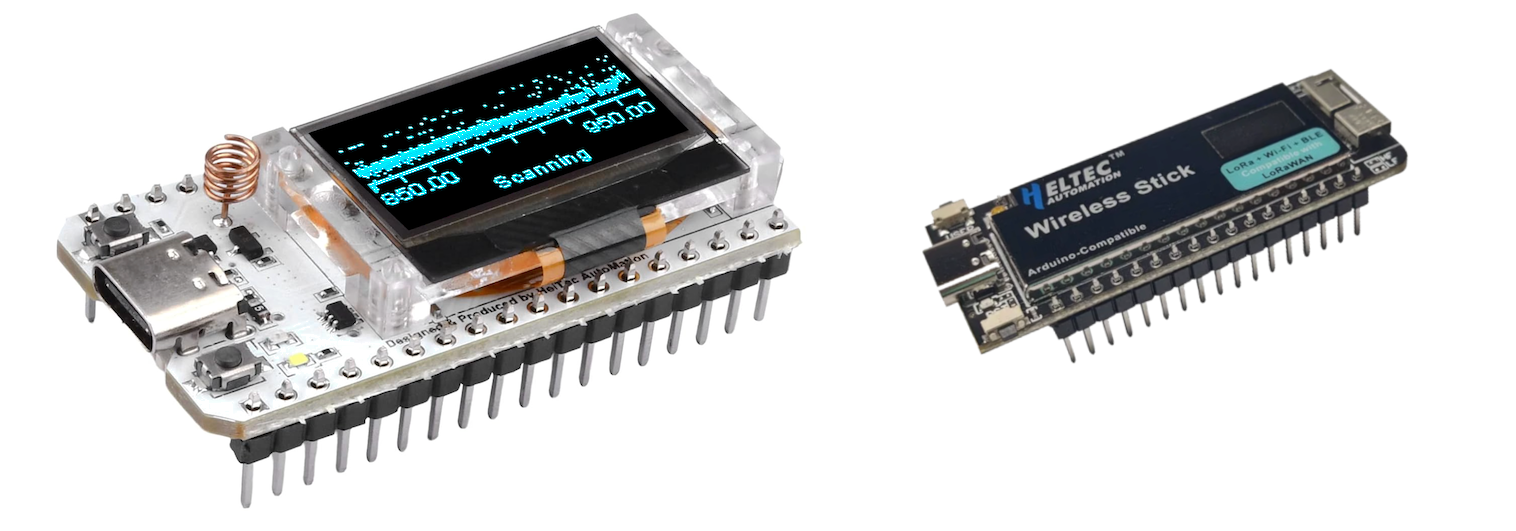
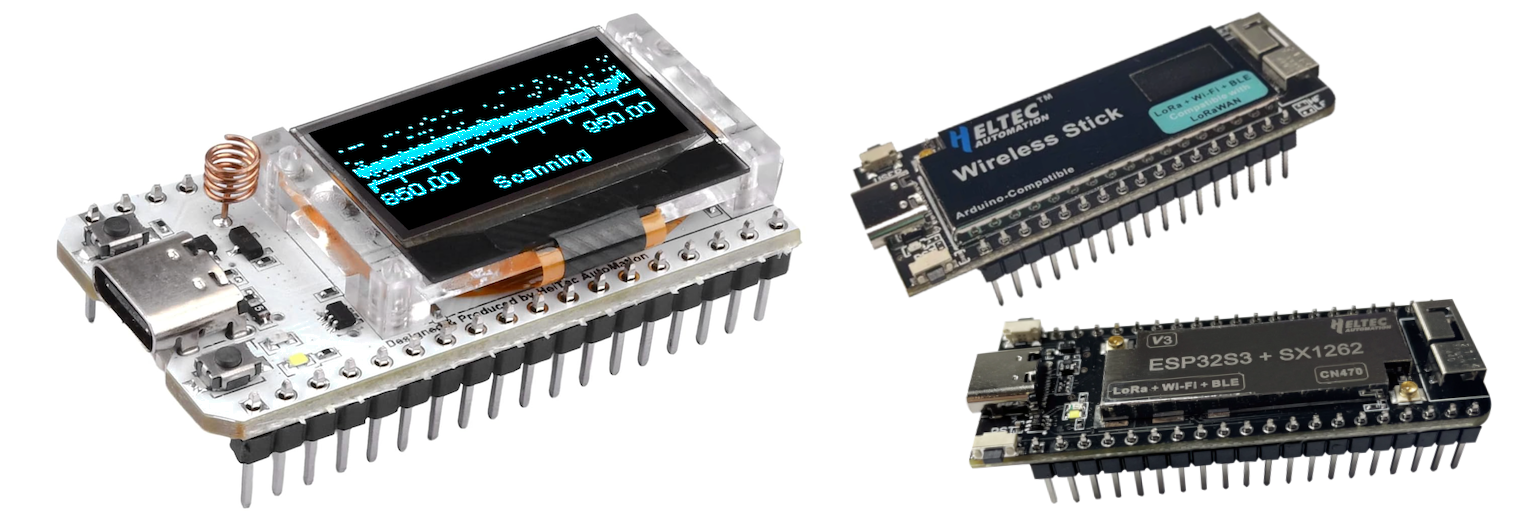
Support for Wireless Stick Lite

Changed region(s): [[0.558, 0.0301, 0.9921, 0.9642]]

diff --git a/src/heltec.h b/src/heltec.h
@@ -39,7 +39,13 @@
 #define SCL_OLED  GPIO_NUM_18
 #define RST_OLED  GPIO_NUM_21
 
-#ifndef HELTEC_NO_RADIOLIB
+#ifdef HELTEC_WIRELESS_STICK_LITE
+  #define HELTEC_NO_DISPLAY
+#endif
+
+#ifdef HELTEC_NO_RADIOLIB
+  #define HELTEC_NO_RADIO_INSTANCE
+#else
   #include "RadioLib/RadioLib.h"
   // make sure the power off button works when using RADIOLIB_OR_HALT
   // (See RadioLib_convenience.h)
@@ -55,12 +61,6 @@
 #endif
 
 #include "HotButton.h"
-
-#ifndef HELTEC_NO_RADIO_INSTANCE
-  #ifndef HELTEC_NO_RADIOLIB
-    SX1262 radio = new Module(SS, DIO1, RST_LoRa, BUSY_LoRa);
-  #endif
-#endif
 
 // Don't you just hate it when battery percentages are wrong?
 //
@@ -85,32 +85,36 @@ const uint8_t scaled_voltage[100] = {
   94, 90, 81, 80, 76, 73, 66, 52, 32, 7,
 };
 
-/**
- * @class PrintSplitter
- * @brief A class that splits the output of the Print class to two different
- *        Print objects.
- *
- * The PrintSplitter class is used to split the output of the Print class to two
- * different Print objects. It overrides the write() function to write the data
- * to both Print objects.
- */
-class PrintSplitter : public Print {
-  public:
-    PrintSplitter(Print &_a, Print &_b) : a(_a), b(_b) {}
-    size_t write(uint8_t c) {
-      a.write(c);
-      return b.write(c);
-    }
-    size_t write(const char* str) {
-      a.write(str);
-      return b.write(str);
-    }
-  private:
-    Print &a;
-    Print &b;
-};
+#ifndef HELTEC_NO_RADIO_INSTANCE
+  SX1262 radio = new Module(SS, DIO1, RST_LoRa, BUSY_LoRa);
+#endif
 
 #ifndef HELTEC_NO_DISPLAY_INSTANCE
+  /**
+   * @class PrintSplitter
+   * @brief A class that splits the output of the Print class to two different
+   *        Print objects.
+   *
+   * The PrintSplitter class is used to split the output of the Print class to two
+   * different Print objects. It overrides the write() function to write the data
+   * to both Print objects.
+   */
+  class PrintSplitter : public Print {
+    public:
+      PrintSplitter(Print &_a, Print &_b) : a(_a), b(_b) {}
+      size_t write(uint8_t c) {
+        a.write(c);
+        return b.write(c);
+      }
+      size_t write(const char* str) {
+        a.write(str);
+        return b.write(str);
+      }
+    private:
+      Print &a;
+      Print &b;
+  };
+
   #ifdef HELTEC_WIRELESS_STICK
     #define DISPLAY_GEOMETRY GEOMETRY_64_32
   #else
@@ -348,8 +352,10 @@ void heltec_loop() {
   #ifdef HELTEC_POWER_BUTTON
     // Power off button checking
     if (button.pressedFor(1000)) {
-      // Visually confirm it's off so user releases button
-      display.displayOff();
+      #ifndef HELTEC_NO_DISPLAY_INSTANCE
+        // Visually confirm it's off so user releases button
+        display.displayOff();
+      #endif
       // Deep sleep (has wait for release so we don't wake up immediately)
       heltec_deep_sleep();
     }

diff --git a/README.md b/README.md
@@ -254,7 +254,7 @@ In other words, this saves a whole lot of typing if what you want is for RadioLi
 
 <kbd><b><a href="https://github.com/ThingPulse/esp8266-oled-ssd1306#api">API documentation</a></b></kbd>
 
-The tiny OLED display uses the same library that the original library from Heltec uses, except now the examples work so you don't have to figure out how to make things work. It is included inside this library because the Heltec board needs a hardware reset and I adapted some things to make the Arduino `print` functionality work better. (The latter change [submitted](https://github.com/ThingPulse/esp8266-oled-ssd1306/pull/389) to the original library also.)
+The tiny OLED display uses the same library that the original library from Heltec uses, except now the examples work so you don't have to figure out how to make things work. It is included inside this library because the Heltec board needs a hardware reset and I adapted some things to make the Arduino `print` functionality work better. (The latter changes [submitted](https://github.com/ThingPulse/esp8266-oled-ssd1306/pull/389) to the original library also.)
 
 There's the primary display library and there's an additinal UI library that allows for multiple frames. The display examples will show you how things work. The library, courtesy of ThingPulse, is well-written and well-documented. [Check them out](https://thingpulse.com/) and buy their stuff.
 
